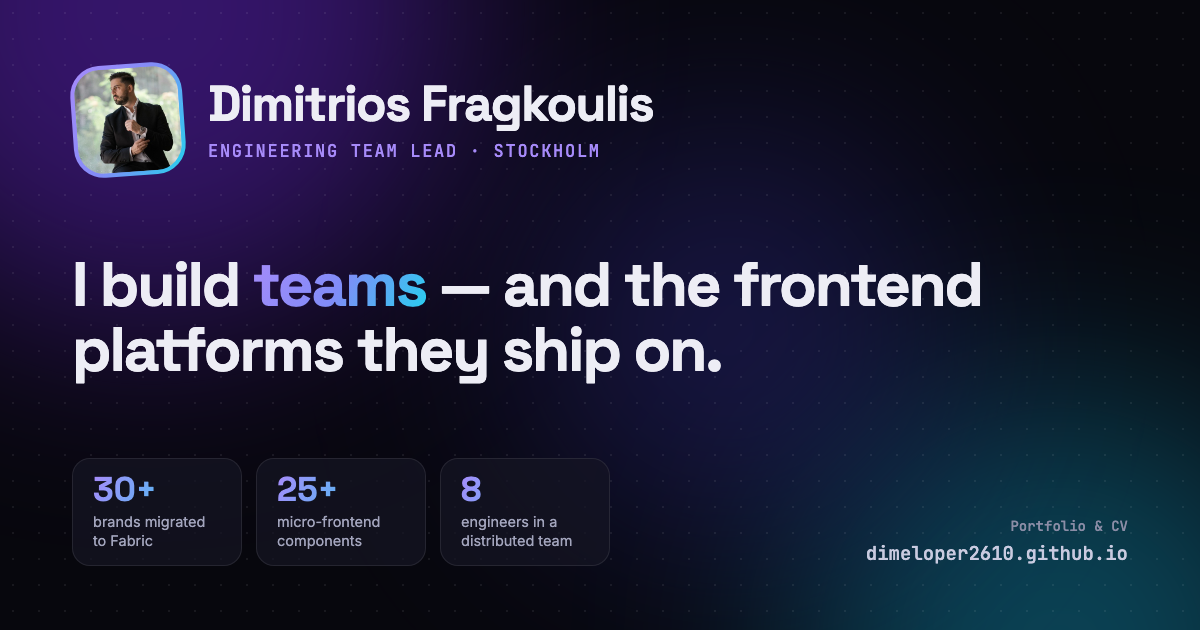
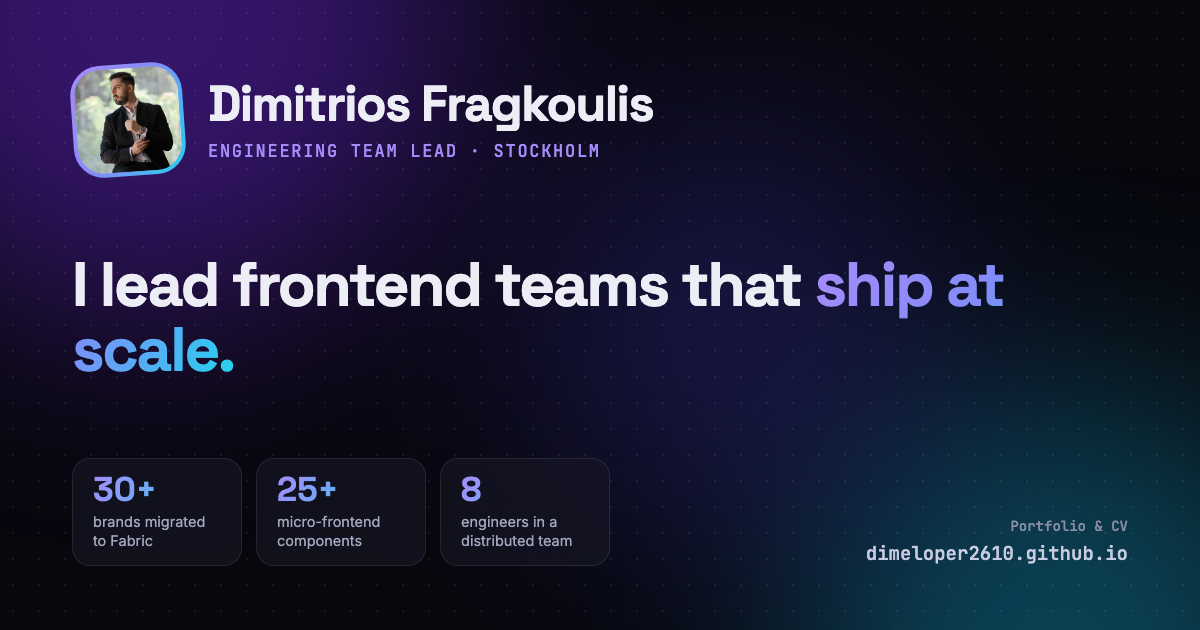
Sharper headline, crisp buttons on hover
- Headline: 'I lead frontend teams that ship at scale.' with a shorter intro
- Badge no longer shows the start year
- Remove magnetic button effect (sub-pixel shifts blurred the text); cursor ring hides over clickable elements
- Share card re-rendered with the new headline

Changed region(s): [[0.0617, 0.3921, 0.8325, 0.6333]]

diff --git a/index.html b/index.html
@@ -6,7 +6,7 @@
   <title>Dimitrios Fragkoulis — Engineering Team Lead</title>
   <meta name="description" content="Dimitrios Fragkoulis — Frontend Engineering Team Lead in Stockholm. Servant leadership, Agile & Lean, Angular, TypeScript, micro-frontends." />
   <meta property="og:title" content="Dimitrios Fragkoulis — Engineering Team Lead" />
-  <meta property="og:description" content="I build teams — and the frontend platforms they ship on. 30+ brands migrated to Fabric, 25+ micro-frontend components, 8-engineer distributed team. Stockholm, Sweden." />
+  <meta property="og:description" content="I lead frontend teams that ship at scale. 30+ brands migrated to Fabric, 25+ micro-frontend components, 8-engineer distributed team. Stockholm, Sweden." />
   <meta property="og:type" content="website" />
   <meta property="og:url" content="https://dimeloper2610.github.io/" />
   <meta property="og:site_name" content="Dimitrios Fragkoulis" />
@@ -61,15 +61,15 @@
           <div class="avatar"><img src="photo.jpg" alt="Dimitrios Fragkoulis" width="400" height="400" /></div>
           <div>
             <h1 class="id__name">Dimitrios Fragkoulis</h1>
-            <span class="chip"><span class="pulse"></span> Engineering FE Team Lead @ Betsson Group · since 2022</span>
+            <span class="chip"><span class="pulse"></span> Engineering FE Team Lead @ Betsson Group</span>
           </div>
         </div>
         <p class="print-only print-contact">Stockholm, Sweden · fragkoulis.dev@gmail.com · linkedin.com/in/dimitrios-fragkoulis-1a848314b · dimeloper2610.github.io</p>
         <p class="kicker">People leadership · Frontend architecture</p>
-        <h2 class="intro__headline">I build <span class="grad">teams</span> — and the frontend platforms they ship on.</h2>
+        <h2 class="intro__headline">I lead frontend teams that <span class="grad">ship at scale.</span></h2>
         <p class="intro__lead">
-          9+ years in tech, from developer to team lead. I combine servant leadership with hands-on
-          architecture to grow high-performing, self-governing teams that deliver at scale.
+          9+ years in tech, from developer to team lead. I grow self-governing teams
+          and stay hands-on with the architecture they build on.
         </p>
         <div class="cta">
           <a class="btn btn--primary" href="#contact">Get in touch <span aria-hidden="true">→</span></a>

diff --git a/styles.css b/styles.css
@@ -421,10 +421,8 @@ strong { font-weight: 600; color: var(--text); }
   transform: scale(1); opacity: .7;
   transition: transform .35s cubic-bezier(.2,.8,.2,1), background .3s, border-color .3s, opacity .3s;
 }
-.cursor-link .cursor-ring::after {
-  transform: scale(1.7); opacity: 1;
-  background: color-mix(in srgb, var(--c1) 10%, transparent); border-color: transparent;
-}
+/* over buttons and links the ring steps aside so text stays crisp */
+.cursor-link .cursor-ring::after { transform: scale(.4); opacity: 0; }
 .cursor-down .cursor-ring::after { transform: scale(.8); }
 .cursor-hidden .cursor-ring::after { opacity: 0; }
 .btn { transition: transform .35s cubic-bezier(.2,.8,.2,1), box-shadow .25s, background .2s, border-color .2s; }

diff --git a/script.js b/script.js
@@ -167,17 +167,6 @@
       const t = e.target.closest && e.target.closest(interactive);
       root.classList.toggle('cursor-link', !!t);
     });
-
-    // gentle magnetic pull on the main buttons only
-    document.querySelectorAll('.btn').forEach((el) => {
-      el.addEventListener('pointermove', (e) => {
-        const r = el.getBoundingClientRect();
-        const x = (e.clientX - r.left - r.width / 2) * 0.1;
-        const y = (e.clientY - r.top - r.height / 2) * 0.14;
-        el.style.transform = `translate(${x}px, ${y}px)`;
-      });
-      el.addEventListener('pointerleave', () => { el.style.transform = ''; });
-    });
   }
 
   /* ---------- Command palette (Cmd/Ctrl + K) ---------- */

diff --git a/og/card.html b/og/card.html
@@ -51,7 +51,7 @@
     </div>
   </div>
 
-  <h1>I build <span class="grad">teams</span> — and the frontend platforms they ship on.</h1>
+  <h1>I lead frontend teams that <span class="grad">ship at scale.</span></h1>
 
   <div class="bottom">
     <div class="stats">
